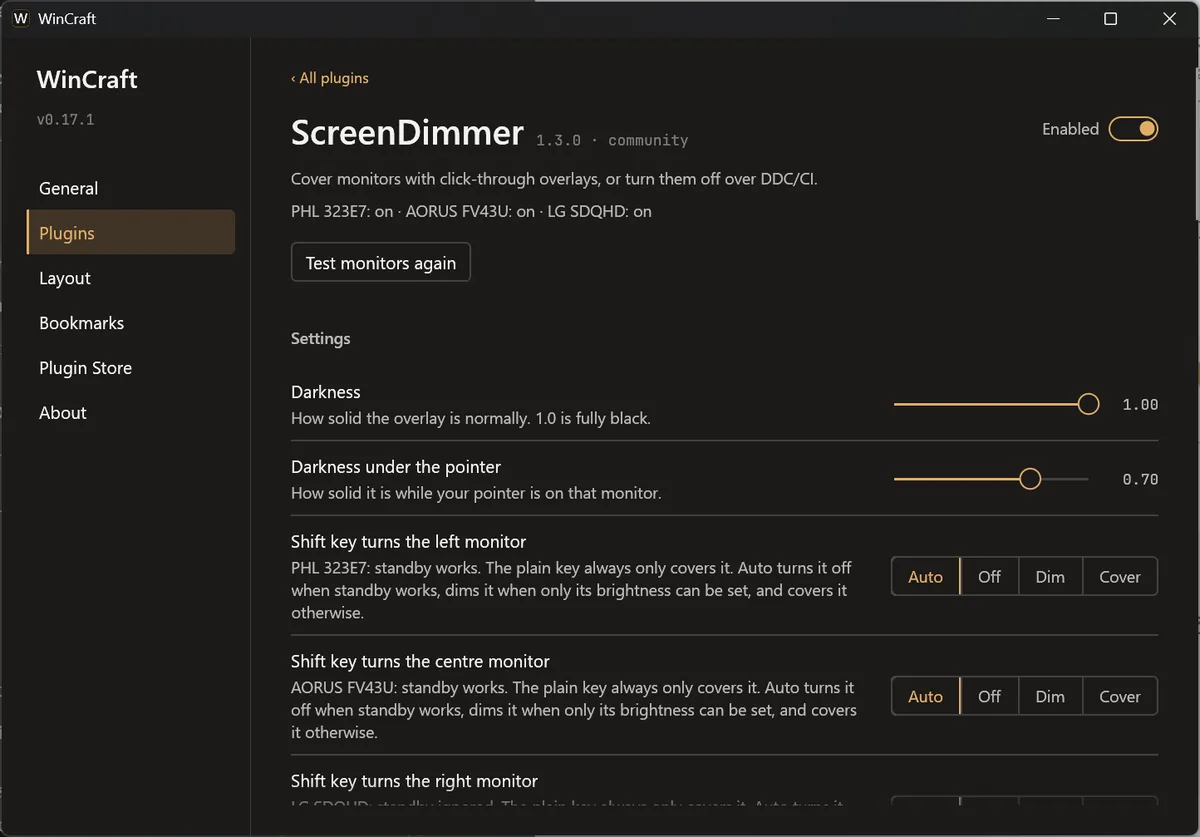
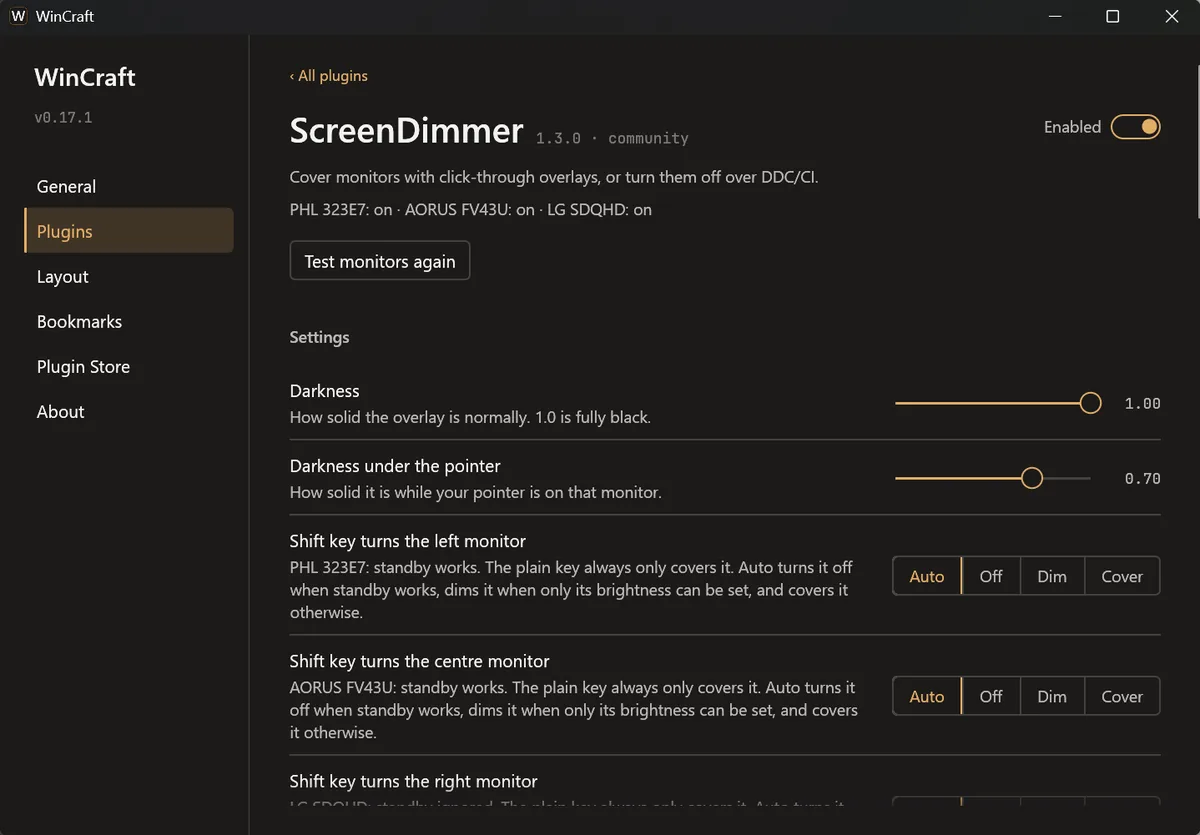
WinCraft gallery: trim the window border so no background shows
The window captures included the window's own 2px border and, at the
rounded corners, the desktop behind it. Trimming 3px per side leaves
only the window's content; the page frame draws the edge and rounds
the corners itself.

diff --git a/sites/wincraft/public/index.html b/sites/wincraft/public/index.html
@@ -113,19 +113,19 @@
       <ul class="views">
         <li>
           <figure>
-            <div class="window"><img src="/images/plugins.webp" alt="The WinCraft settings window on its Plugins page, listing the five plugins" width="1200" height="837" loading="lazy"></div>
+            <div class="window"><img src="/images/plugins.webp" alt="The WinCraft settings window on its Plugins page, listing the five plugins" width="1200" height="835" loading="lazy"></div>
             <figcaption>Settings: five plugins, each with its own page</figcaption>
           </figure>
         </li>
         <li>
           <figure>
-            <div class="window"><img src="/images/screen-dimmer.webp" alt="The ScreenDimmer settings page with its options for each monitor" width="1200" height="837" loading="lazy"></div>
+            <div class="window"><img src="/images/screen-dimmer.webp" alt="The ScreenDimmer settings page with its options for each monitor" width="1200" height="835" loading="lazy"></div>
             <figcaption>ScreenDimmer: cover a monitor or turn it off</figcaption>
           </figure>
         </li>
         <li>
           <figure>
-            <div class="window"><img src="/images/shortcut-detector.webp" alt="The shortcut detector window showing which key combinations are taken" width="1122" height="831" loading="lazy"></div>
+            <div class="window"><img src="/images/shortcut-detector.webp" alt="The shortcut detector window showing which key combinations are taken" width="1116" height="825" loading="lazy"></div>
             <figcaption>Shortcut detector: which key combinations are taken</figcaption>
           </figure>
         </li>
